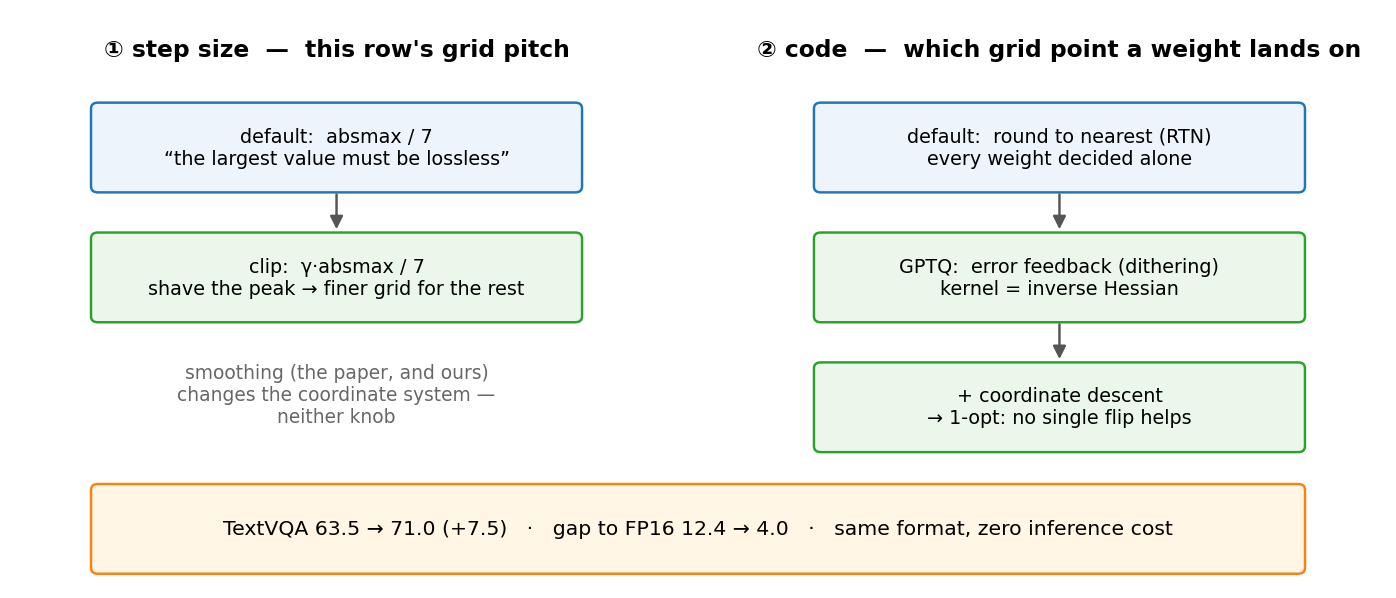
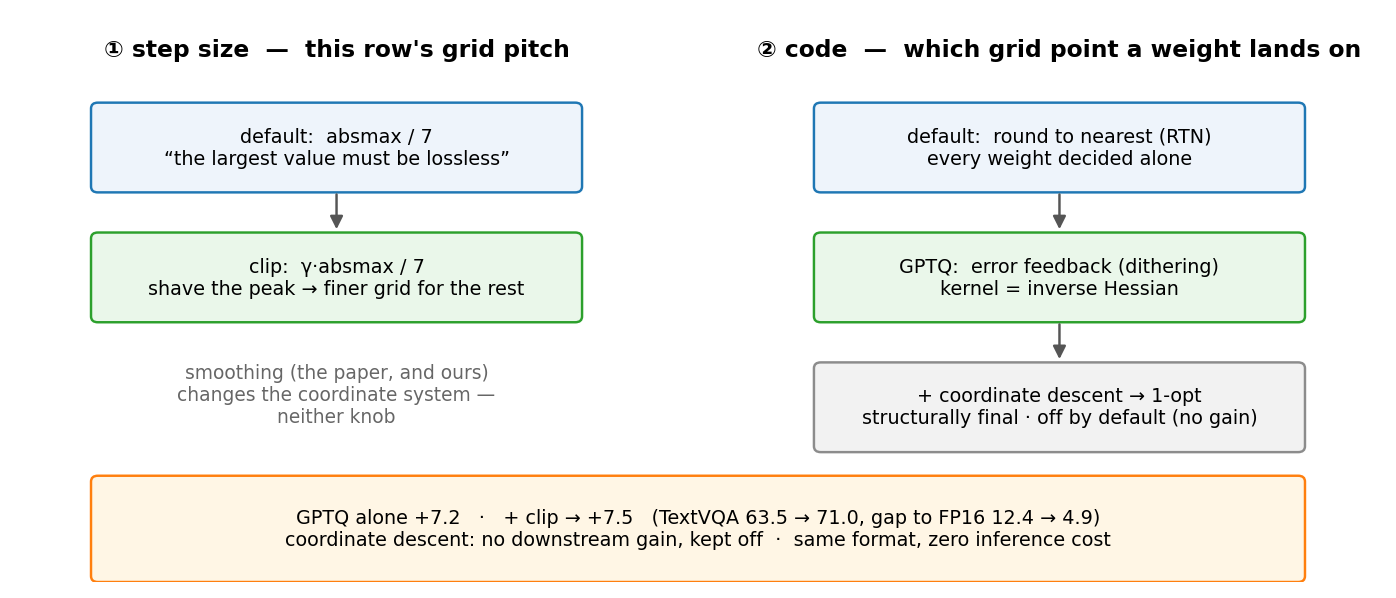
Fix three review points: gap 4.9, NP-hard wording, and +7.5 attribution
1. Gap to FP16 on the P7 result bar: 4.0 -> 4.9. 75.85 - 70.98 = 4.87. The 4.0 figure
   belongs to a different config (MAS single-weight deployment, TextVQA 71.88), so the
   slide was mixing two rows of table 6.2.2.
2. "NP-hard, no exact solution" -> "exact solution is out of reach at this size
   (11008 elements x 16 levels); NP-hard only describes worst-case complexity and does
   not mean no exact solution exists". Fixed in the talk script (page, script, table,
   takeaway list, self-check) and in the written report section 5.6.6.
3. +7.5 must not read as the coordinate-descent step's doing. The staircase
   RTN -> GPTQ -> +cd followed immediately by "+7.5" invited that reading, while our own
   ablation says GPTQ alone gives +7.2 (5000-item subset), clip adds under 0.3, and cd
   has no consistent downstream gain (kept off by default). The script now says this
   explicitly, Q7 is split into Q7 (cd) and Q7c (who gave the 7.5), and fig11 marks the
   cd box grey as "structurally final, off by default (no gain)" and its result bar
   carries the per-step attribution.

Changed region(s): [[0.0616, 0.8428, 0.9549, 0.9933], [0.0616, 0.7525, 0.9549, 0.8127], [0.5852, 0.602, 0.9549, 0.7224]]

diff --git a/tools/make_slides_figs.py b/tools/make_slides_figs.py
@@ -207,15 +207,17 @@ def fig11(outdir):
     box(5.9, 3.35, W, H, "default:  round to nearest (RTN)\nevery weight decided alone")
     box(5.9, 2.25, W, H, "GPTQ:  error feedback (dithering)\nkernel = inverse Hessian",
         fc="#eaf7ea", ec="#2ca02c")
-    box(5.9, 1.15, W, H, "+ coordinate descent\n→ 1-opt: no single flip helps",
-        fc="#eaf7ea", ec="#2ca02c")
+    box(5.9, 1.15, W, H, "+ coordinate descent → 1-opt\nstructurally final · off by default (no gain)",
+        fc="#f2f2f2", ec="#8c8c8c")
     arrow(7.65, 3.32, 7.65, 2.95)
     arrow(7.65, 2.22, 7.65, 1.85)
 
-    ax.add_patch(FancyBboxPatch((0.6, 0.12), 8.8, 0.66, boxstyle="round,pad=0.05",
+    ax.add_patch(FancyBboxPatch((0.6, 0.05), 8.8, 0.8, boxstyle="round,pad=0.05",
                                 fc="#fff6e5", ec="#ff7f0e", lw=1.1))
-    ax.text(5.0, 0.45, "TextVQA 63.5 → 71.0 (+7.5)   ·   gap to FP16 12.4 → 4.0   ·   same format, zero inference cost",
-            ha="center", va="center", fontsize=9.2)
+    ax.text(5.0, 0.45,
+            "GPTQ alone +7.2   ·   + clip → +7.5   (TextVQA 63.5 → 71.0, gap to FP16 12.4 → 4.9)"
+            "\ncoordinate descent: no downstream gain, kept off  ·  same format, zero inference cost",
+            ha="center", va="center", fontsize=8.6)
     p = os.path.join(outdir, "fig11_two_knobs.png")
     fig.savefig(p)
     plt.close(fig)

diff --git a/docs/汇报文稿_8分钟.md b/docs/汇报文稿_8分钟.md
@@ -260,10 +260,10 @@
 
 **第 3 层（台阶，贴在右栏下方作注）**：
 `RTN 完全不协同 → GPTQ 贪心（定完不回头）→ +cd 达 1-opt（单独改任何一个都不再更好）`
-`本质：离散二次规划 · NP-hard`
+`本质：离散二次规划 · 规模上精确求解不现实`
 
 **第 4 层（结果条）**：
-`TextVQA 63.5 → 71.0（+7.5）· 与 FP16 差 12.4 → 4.0 · 格式不变、推理零开销`
+`TextVQA 63.5 → 71.0（+7.5）· 与 FP16 差 12.4 → 4.9 · 格式不变、推理零开销`
 （fig11 底部已经画好这一条，PPT 上不必再重复写一遍。）
 
 **切图节奏**：讲"两个旋钮"时停在 `fig11_two_knobs.png`；讲完码字侧三级台阶后切 `fig5_solver_ppl.png`
@@ -276,7 +276,7 @@
 > **量化一层权重，其实只有两个地方可以动**：一个是**步长**，或者说缩放的 scale，决定这一行用多大的格距；另一个是**码字**，每个权重最终落在哪个格点上。
 > 论文的平滑改的是「输入怎么缩放」，等于换了个坐标系——但这两个旋钮它一个都没碰：scale 还是默认最大值顶到表示范围上限，码字还是逐个就近取整，也就是 RTN（round to nearest）。所以我们一个旋钮一个旋钮来用。
 >
-> 先说**码字**这一侧，因为这里有一个很清楚的算法结构。4 bit 只有十六个可表示的取值，把每个权重放到其中一个上、让这一层的输出误差最小——这是个**离散二次规划**，NP-hard，没有精确解。所以只能比「局部到什么程度」：
+> 先说**码字**这一侧，因为这里有一个很清楚的算法结构。4 bit 只有十六个可表示的取值，把每个权重放到其中一个上、让这一层的输出误差最小——这是个**离散二次规划**：一行一万多个权重、每个十六种取值，**精确求解在规模上不现实**（这类问题最坏情况下没有多项式算法，也就是 NP-hard）。所以只能比「局部最优做到多深」：
 > **RTN** 各自就近取整，谁也不管谁，完全不协同。
 > **GPTQ** 强得多：一列一列地量化，把每列舍入产生的误差补偿给后面还没量的列——就是图像里的**误差扩散dithering**，只是扩散核换成了从数据统计出来的逆 Hessian。但它是贪心，定完一列不回头。
 > 我们加的第三级 **cd，坐标下降**：GPTQ 解完之后逐个元素来一遍，固定其它所有元素，单独把这一权重在十六个格点里重选，只接受让误差下降的改动。扫到收敛就达到 **1-opt**：也就是单独改任何一个，都不可能更好。
@@ -284,15 +284,20 @@
 >
 > 再说**scale**这一侧。默认的 scale 要求这一行最大的那个值必须无损，代价是为了一个值把整行格距撑粗。我们让最大值轻微削顶，换大多数元素更细的格距——**一个亏、其余赚**。而且它和 GPTQ 互补：只削顶、不做 GPTQ，至少固定会吃到削顶误差；加上 GPTQ 能把这个误差进一步补偿掉，还能再降一截。
 >
-> 所以两个旋钮各有各的工具：**步长交给 clip，码字交给 GPTQ 加 cd。**
+> 所以两个旋钮各有各的工具：**步长交给 clip，码字交给 GPTQ。**
 >
-> 结果是 TextVQA 从 63.5 到 71.0，涨 7.5 点；与 FP16 的差距从 12 点缩到 4 点。格式没变、推理零开销。
+> 结果是 TextVQA 从 63.5 到 71.0。**这 7.5 点是 GPTQ 自己给出的**——单独上 GPTQ 就有 7.2（全量 5000 题）；
+> clip 再补不到 0.3 点。**cd 我们做了、也留了开关，但下游没有一致收益，所以默认关闭**：
+> 它的价值是把码字这一侧推到 1-opt，告诉我们"再往上改码字不值"，**不是它带来了这些点**。
+> 与 FP16 的差距从 12.4 缩到 4.9，格式没变、推理零开销。
 >
 > 最后还有一个多模态特有的前提，也是整条线的收口：**这一整套要求按照我们上一页说的，校准集已经修好。** 在原校准集上，同样的 GPTQ 让 9 个 checkpoint 全部变差——不先修校准集，GPTQ 这样的误差反馈补偿反而有害。
 
 **任务**：全场唯一需要「讲透」的地方。
 **取胜点**：先用「只有两个自由度」把问题框住，再在码字那一侧展开算法台阶。
-这样即使听众没听过 GPTQ，也能听懂「这是个 NP-hard 的离散优化，不同方法只是局部最优的深度不同」。
+这样即使听众没听过 GPTQ，也能听懂「这是个组合优化，规模上求不了精确解，不同方法只是局部最优的深度不同」。
+**不要说「没有精确解」**——被追问「小规模实例也没有吗」会很难看。正确说法是：最坏情况下没有多项式算法，
+而我们这个规模（11008 个元素 × 16 个取值）根本枚举不完。
 **允许超 10 秒，但绝不允许加第 5 个方法。**
 
 ---
@@ -349,7 +354,7 @@
 | 音频（Omni / ASR）也打平 | **一句带过** | P5 页脚 + 口播半句 | 直接堵住「音频是论文最强论据」这个必问点 |
 | 混合校准 + C4 验证 | **重点讲**（55s） | P6 | 最干净的正面改进 |
 | **「只有两个自由度」的框架** | **重点讲**（~30s） | P7 开场 | 全稿唯一的「高一层视角」，一句话把整页立住 |
-| **码字侧台阶：NP-hard → RTN → GPTQ → cd（1-opt）** | **重点讲**（~90s） | P7 右栏 | 人人能听懂，且听完会觉得有收获 |
+| **码字侧台阶：组合优化 → RTN → GPTQ → cd（1-opt）** | **重点讲**（~90s） | P7 右栏 | 人人能听懂，且听完会觉得有收获 |
 | 误差扩散抖动类比 | **讲**（~20s） | P7 右栏 | 让「误差反馈」一眼就懂 |
 | **步长侧 clip（削顶 + 与 GPTQ 互补）** | **讲**（~35s） | P7 左栏 | 与码字侧对称，交给 clip 正好收口「两个旋钮」 |
 | 2-opt | **一句否定**（~5s） | P7 | 组合代价高、收益不划算；追问见 Q7 |
@@ -413,18 +418,23 @@ SmoothQuant / RTN 直接崩。所以 P9 **不主动列未完成清单**，收口
 
 | 台阶 | 一句话 | 说明什么 |
 |---|---|---|
-| 问题 | 4 bit 只有十六个取值，把每个权重放到其中一个上、让层输出误差最小 —— **离散二次规划，NP-hard** | 精确解不存在，只能比「局部到什么程度」 |
+| 问题 | 4 bit 只有十六个取值，把每个权重放到其中一个上、让层输出误差最小 —— **离散二次规划** | 最坏情况下没有多项式算法（NP-hard）；我们这个规模（11008 × 16）枚举不完，所以只能比「局部最优的深度」 |
 | RTN | 各自就近取整，谁也不管谁 | 完全不协同 |
 | GPTQ | 逐列量化 + 误差反馈（**误差扩散抖动**） | 强得多，但是贪心，定完不回头 |
 | **GPTQ + cd** | 逐元素重选码字；固定其它变量时可闭式求最优 | **1-opt：单独改任何一个都不再更好** |
 | 2-opt | 同时改两个，能跳出 1-opt 的坑 | 组合代价高；**本项目未实现**，我们停在 1-opt |
 
-**落点必须说这一句**（它把「cd 没有端到端收益」变成正面结论）：
+**落点必须说这一句**：
 
 > 「理论上还能再往上走——同时改两个——但组合代价高、收益不划算，我们停在 1-opt。」
 
-**千万别做的事**：把 cd 讲成「我们试了一个新算法，效果一般」。
-正确说法是「**我们用算法视角把这个问题的结构讲清楚了：RTN 到 GPTQ 是质变，GPTQ 到 1-opt 是收尾，再往上就不值了**」。
+**两件千万别做的事**：
+1. 把 cd 讲成「我们试了一个新算法，效果一般」——它的价值是**结构性的**：把码字侧推到 1-opt，
+   证明"再往上（2-opt）不值"，不是下游收益。
+2. **把 +7.5 说成 cd 的功劳**。实测：GPTQ 单独 +7.2（全量 5000 题），+clip 到 +7.5，cd 下游无一致收益、默认关。
+   听众若从"RTN → GPTQ → +cd"的台阶顺势以为 7.5 是最后一级给的，一追问就崩。
+
+正确说法是「**RTN 到 GPTQ 是质变，clip 是补刀，GPTQ 到 1-opt 是收尾，再往上就不值了**」。
 
 ### 4.5 步长侧：clip（P7 左栏，约 35 秒）
 
@@ -453,7 +463,7 @@ SmoothQuant / RTN 直接崩。所以 P9 **不主动列未完成清单**，收口
 | 1 | P8 只留「CMC 一句话 + 加速比」，NVFP4 挪到结论页的一句 | 20s | 无 |
 | 2 | P2 删掉 SmoothQuant 那句解释（P3 会再提到它） | 10s | 无 |
 | 3 | P7 的 `2-opt` 那句删掉（台阶停在 1-opt） | 8s | 几乎无 |
-| 4 | P7 的 cd 只讲「固定其它变量、逐个重选码字、只接受变好的」，不讲二次性可闭式求解 | 20s | 少一层严谨，1-opt 结论还在 |
+| 4 | P7 的 cd 只讲「固定其它变量、逐个重选码字、只接受变好的」，不讲二次性可闭式求解；**并明确说它默认关闭、下游无一致收益** | 20s | 少一层严谨，1-opt 结论还在，也不会把 7.5 记到 cd 头上 |
 | 5 | P3 删掉定理笔误（**只在真的没时间时才砍**） | 12s | 损失一个「读懂了」的证据 |
 | 6 | P6 删掉「成本是零」那一句 | 8s | 无 |
 
@@ -474,7 +484,8 @@ SmoothQuant / RTN 直接崩。所以 P9 **不主动列未完成清单**，收口
 | Q4 | **GPTQ 不是已有方法吗？创新在哪？** | 见 §4.6。**两个自由度的框架 + 三个多模态设计问题 + 反直觉结论（原校准上 9/9 更差）。** |
 | Q5 | **为什么只用 3B？** | **官方示例脚本默认就是 3B**。3B 单卡一轮 5~7 分钟，我们才能做一百多次独立训练来支撑重复与显著性检验；7B 会降到十几次，做不了检验。代价是外推受限，写在局限里。 |
 | Q6 | **为什么只有两个 benchmark？** | **评测链路限制**：MMMU 需要外部 judge，OCRBench 的聚合指标在现有调用路径下拿不到。**我们选的是「两个但全量 + 配对检验」，不是「多但只跑 10%」。** |
-| **Q7** | **cd 有没有端到端收益？** | **没有一致收益，我们默认不开**。价值在结构上：它把码字这一侧推到 1-opt，说明**再往上（2-opt）就不值了**——求解器不是瓶颈。真正的收益来自 GPTQ 本身（+7.2 到 +7.5）。 |
+| **Q7** | **cd 有没有端到端收益？** | **没有一致收益，我们默认不开**（PPL 上也没稳定变好）。价值在结构上：它把码字这一侧推到 1-opt，说明**再往上（2-opt）就不值了**。**+7.5 里 7.2 是 GPTQ 给的**，clip 补不到 0.3，cd 的贡献是 0。 |
+| Q7c | **那 +7.5 到底是谁给的？** | **GPTQ**。同一 checkpoint、同一校准集，只把 RTN 换成 GPTQ，TextVQA 63.5 → 70.9（+7.2，全量 5000 题）；再加 clip 到 71.0（+7.5）；cd 在这个基础上没有再增益。 |
 | Q7b | **你们有过失败的改进吗？** | **有**：我们做过 CMC 的按层自适应秩，只在 PPL 上验证。后来补下游才发现 PPL 根本不经过视觉旁路；实测它显著更差，已经撤回，理由写在报告里。 |
 | Q8 | **NVFP4 下为什么 GPTQ 没用？** | **16 元素块缩放已经把权重误差吸收掉了**，RTN 本身就接近 FP16。所以这套求解器改进针对的是 INT 的 per-channel 粗粒度格点。 |
 | Q9 | **能推广到别的模型吗？** | **跨模态验证过，跨规模没验证**：换到 Qwen2.5-Omni-3B 的音频上，归因（打平）、校准（文本占比一改就有收益）、求解器（与 FP16 只差 0.4 点）三条都成立；7B 没测。 |
@@ -511,6 +522,9 @@ SmoothQuant / RTN 直接崩。所以 P9 **不主动列未完成清单**，收口
 - [ ] P4 → P5 的转场有一句「那 MAS 比 SmoothQuant 高的这 3 点多，到底哪儿来的」，**不要跳过**
 - [ ] P7 开场先说「只有两个自由度」，再分左右两栏，**顺序不要倒**
 - [ ] P7 的台阶是三级（RTN / GPTQ / +cd），末句落在「再往上不值，我们停在 1-opt」
+- [ ] P7 **明确说出**：+7.5 里 GPTQ 占 7.2，cd 默认关闭、下游无一致收益（别让台阶图替你背这个账）
+- [ ] 全稿没有「NP-hard，所以没有精确解」这种说法（正确说法：规模上精确求解不现实）
+- [ ] P7 结果条与 FP16 的差距是 **4.9**（不是 4.0；4.0 是"只用文本尺度的单权重部署"那个配置）
 - [ ] **每页只有一张图 + 一行 ≤15 字的字**；P4 / P5 的表格已经换成 `fig2` / `fig8`，台上不要出现表格
 - [ ] P7 的骨架图是 `fig11_two_knobs.png`（不是 ASCII 截图），切图顺序 fig11 → fig5 → fig6
 - [ ] 所有图在投影仪分辨率下能看清（`docs/figs/` 里都是 160 dpi 导出，字号 ≥8pt）

diff --git a/docs/书面报告.md b/docs/书面报告.md
@@ -388,7 +388,8 @@ GPTQ 是**单遍贪心的求解器，并不是它自己目标函数的最优解*
 枚举全部格点、只接受降 loss 的改动（固定其余变量时目标对该单变量是二次的，可闭式求值），
 严格单调，收敛到 **1-opt 局部极小**。
 
-从算法层面收口：这个问题本质是**离散二次规划，NP-hard**。在这个视角下几种方法是逐级变强的局部最优：
+从算法层面收口：这个问题本质是**离散二次规划**，最坏情况下没有多项式时间算法（NP-hard）。
+注意 NP-hard 只说最坏情况的复杂度，**不表示不存在精确解**；只是在本项目的规模下（一行约 1.1 万个元素 × 16 个取值）枚举不现实，所以只能比较「局部最优的深度」。在这个视角下几种方法是逐级变强的局部最优：
 
 | 方法 | 局部最优的深度 | 说明 |
 |---|---|---|
